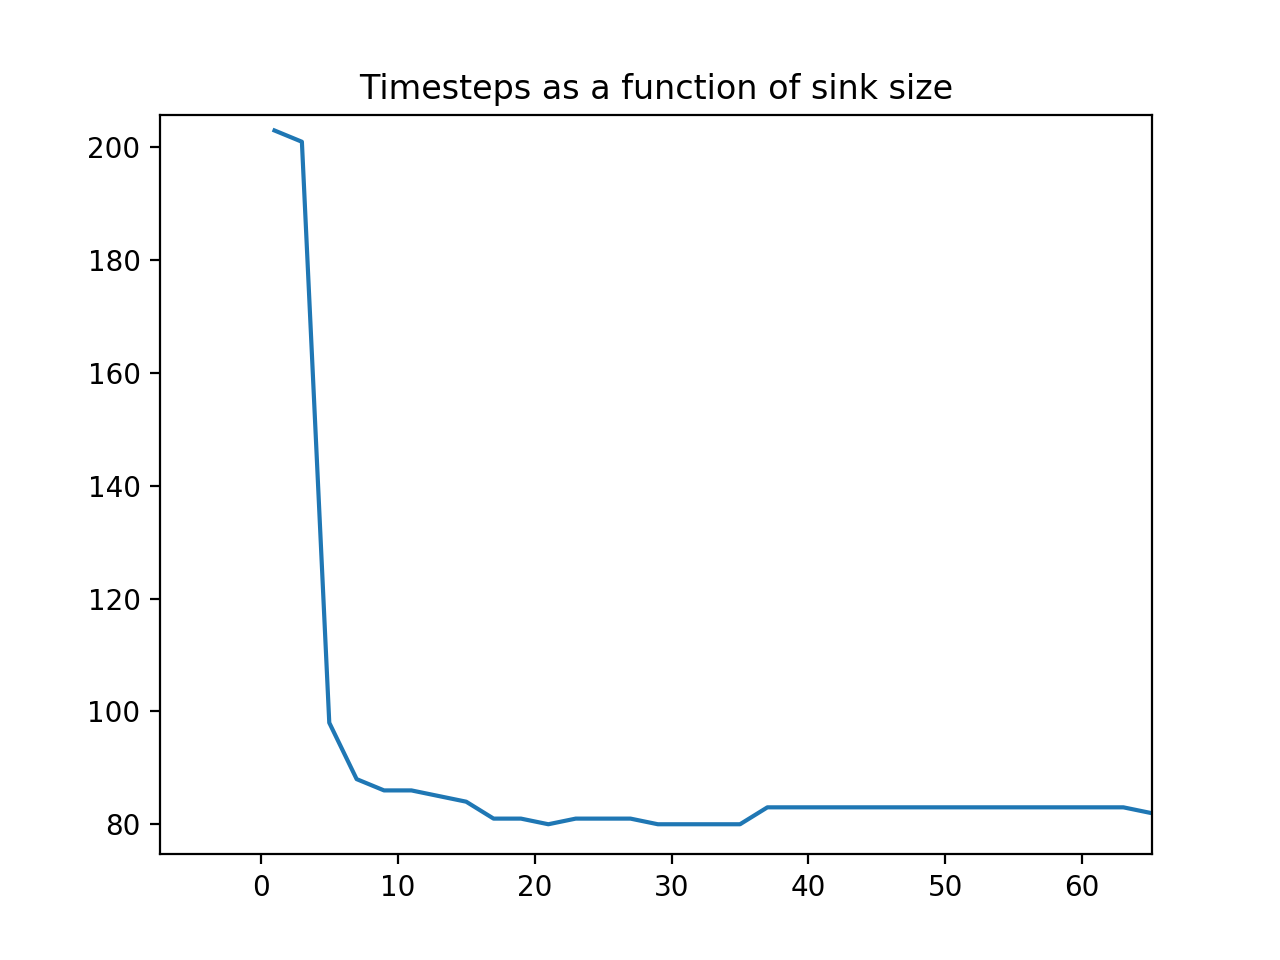
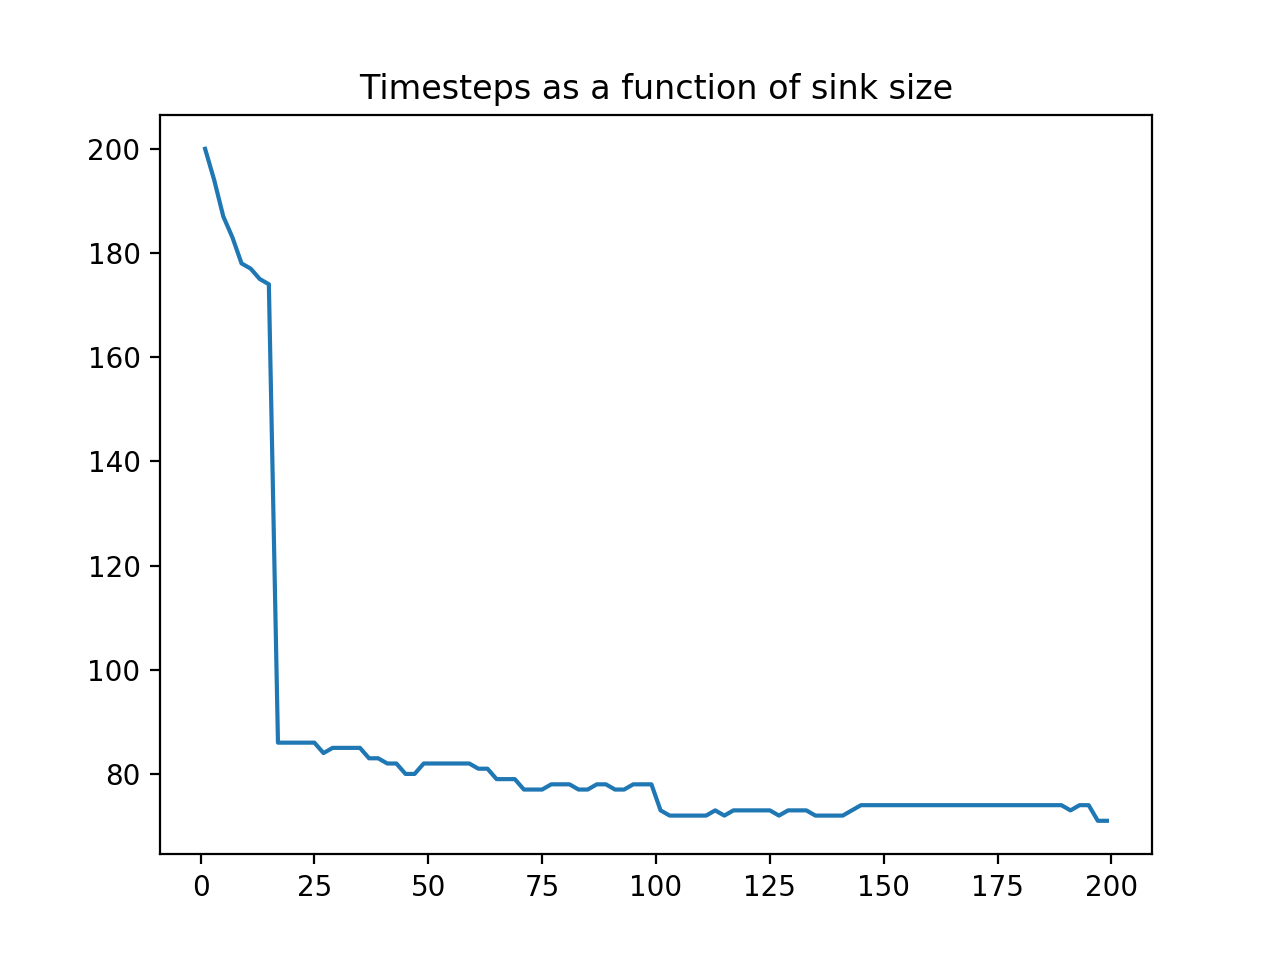
Update timesteps.png

diff --git a/jacobi.py b/jacobi.py
@@ -403,7 +403,7 @@ if __name__ == "__main__":
     # plotTValues()
 
     if sys.argv[1] == "J":
-        plotEffectOfSinks(plot_omega=True)
+        plotEffectOfSinks(plot_iterations=True, plot_omega=False)
         imshowSinks(30, 36)
         imshowSinks(30, 37)
 
